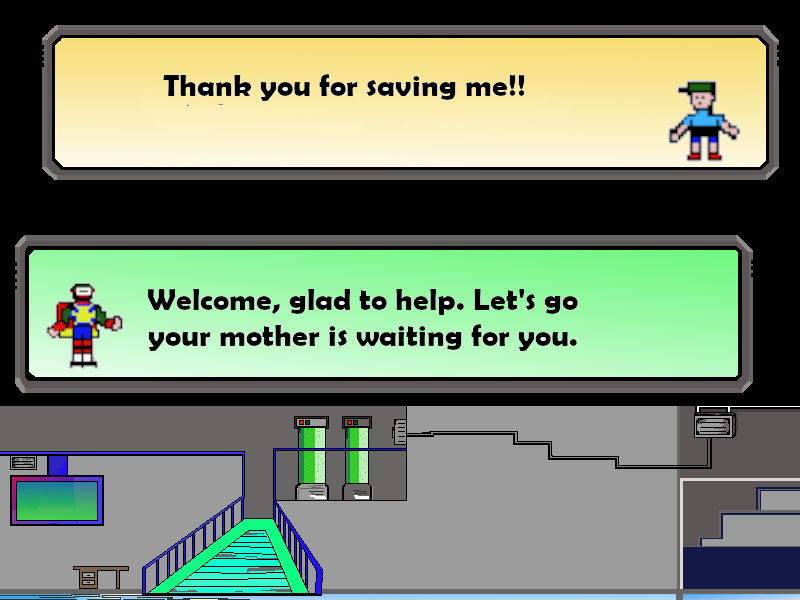
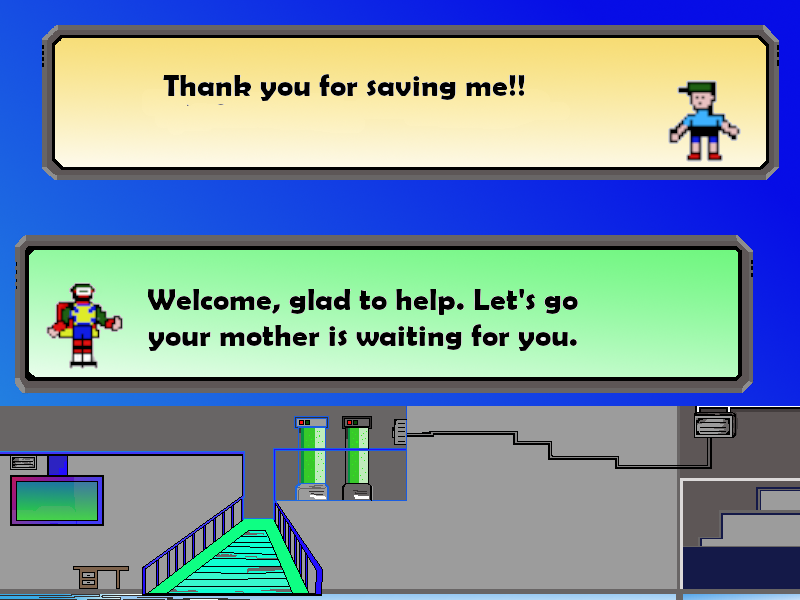
add transparent.png and change bgColor of ending story in tunnels.

diff --git a/js/UserInterface.js b/js/UserInterface.js
@@ -41,21 +41,21 @@ var levelStoryMenu = [  86,0,0,0,0,0,0,0,0,0,0,0,0,0,0,0,0,0,0,0,
   0,0,0,0,0,0,0,0,0,0,0,0,0,0,0,0,0,0,0,0,  
   0,0,0,0,0,0,0,0,0,0,0,0,0,0,0,0,0,0,0,0,   
   0,0,0,0,0,0,0,0,0,0,0,0,0,0,0,0,0,0,0,0,  ];
-  var levelStoryBoy = [  87,0,0,0,0,0,0,0,0,0,0,0,0,0,0,88,0,0,0,0,  
-    0,0,0,0,0,0,0,0,0,0,0,0,0,0,0,88,0,0,0,0,  
-    0,0,0,0,0,0,0,0,0,0,0,0,0,0,0,88,0,0,0,0,  
-    0,0,0,0,0,0,0,0,0,0,0,0,0,0,0,88,0,0,0,0,  
-    0,0,0,0,0,0,0,0,0,0,0,0,0,0,0,88,0,0,0,0,  
-    0,0,0,0,0,0,0,0,0,0,0,0,0,0,0,88,0,0,0,0,   
-    0,0,0,0,0,0,0,0,0,0,0,0,0,0,0,88,0,0,0,0,                                              
-    0,0,0,0,0,0,0,0,0,0,0,0,0,0,0,88,0,0,0,0,     
-    0,0,0,0,0,0,0,0,0,0,0,0,0,0,0,88,0,0,0,0,   
-    0,0,0,0,0,0,0,0,0,0,0,0,0,0,0,88,0,0,0,0,   
-    0,0,0,0,0,0,0,0,0,0,0,0,0,0,0,88,0,0,0,0,   
-    0,0,0,0,0,0,0,0,0,0,0,0,0,0,0,88,0,0,0,0,                                                                                                                            
-    0,0,0,0,0,0,0,0,0,0,0,0,0,0,0,88,0,0,0,0,  
-    0,0,0,0,0,0,0,0,0,0,0,0,0,0,0,88,0,0,0,0,   
-    2,0,0,0,0,0,0,0,0,0,0,0,90,0,89,88,0,0,0,0,];
+  var levelStoryBoy = [  87,0,0,0,0,0,0,0,0,0,0,0,0,0,0,93,0,0,0,0,  
+    0,0,0,0,0,0,0,0,0,0,0,0,0,0,0,93,0,0,0,0,  
+    0,0,0,0,0,0,0,0,0,0,0,0,0,0,0,93,0,0,0,0,  
+    0,0,0,0,0,0,0,0,0,0,0,0,0,0,0,93,0,0,0,0,  
+    0,0,0,0,0,0,0,0,0,0,0,0,0,0,0,93,0,0,0,0,  
+    0,0,0,0,0,0,0,0,0,0,0,0,0,0,0,93,0,0,0,0,   
+    0,0,0,0,0,0,0,0,0,0,0,0,0,0,0,93,0,0,0,0,                                              
+    0,0,0,0,0,0,0,0,0,0,0,0,0,0,0,93,0,0,0,0,     
+    0,0,0,0,0,0,0,0,0,0,0,0,0,0,0,93,0,0,0,0,   
+    0,0,0,0,0,0,0,0,0,0,0,0,0,0,0,93,0,0,0,0,   
+    0,0,0,0,0,0,0,0,0,0,0,0,0,0,0,93,0,0,0,0,   
+    0,0,0,0,0,0,0,0,0,0,0,0,0,0,0,93,0,0,0,0,                                                                                                                            
+    0,0,0,0,0,0,0,0,0,0,0,0,0,0,0,93,93,0,0,0,  
+    0,0,0,0,0,0,0,0,0,0,0,0,0,0,0,93,0,0,0,0,   
+    2,0,0,0,0,0,0,0,0,0,0,0,90,0,89,93,0,0,0,0,];
     var levelStoryEnding = [  91,0,0,0,0,0,0,0,0,0,0,0,0,0,0,0,0,0,0,0,  
       0,0,0,0,0,0,0,0,0,0,0,0,0,0,0,0,0,0,0,0,  
       0,0,0,0,0,0,0,0,0,0,0,0,0,0,0,0,0,0,0,0,  

diff --git a/js/ImageLoading.js b/js/ImageLoading.js
@@ -159,6 +159,7 @@ function loadImages() {
     { trackType: WORLD_WATER, theFile: "sewerWater.png" },
     { trackType: WORLD_STORY, theFile: "robo-explorer-story-image1.png" },
     { trackType: WORLD_STORYBOY, theFile: "BossCockroachStory7.png" },
+    { trackType: WORLD_TRANSPARENT, theFile: "transparent.png" },
     { trackType: WORLD_BLACKTILES, theFile: "black.png" },
     { trackType: WORLD_DRAMBERVARD, theFile: "drambervard.png" },
     { trackType: WORLD_ENDING, theFile: "endingRobo-explorer2.png" },

diff --git a/js/World.js b/js/World.js
@@ -365,6 +365,7 @@ var sideQuest4 = [
         const WORLD_DRAMBERVARD =90;
         const WORLD_ENDING=91;
         const WORLD_MEMORY=92;
+        const WORLD_TRANSPARENT=93;
         // const WORLD_SMALLBRICK 
 
        
